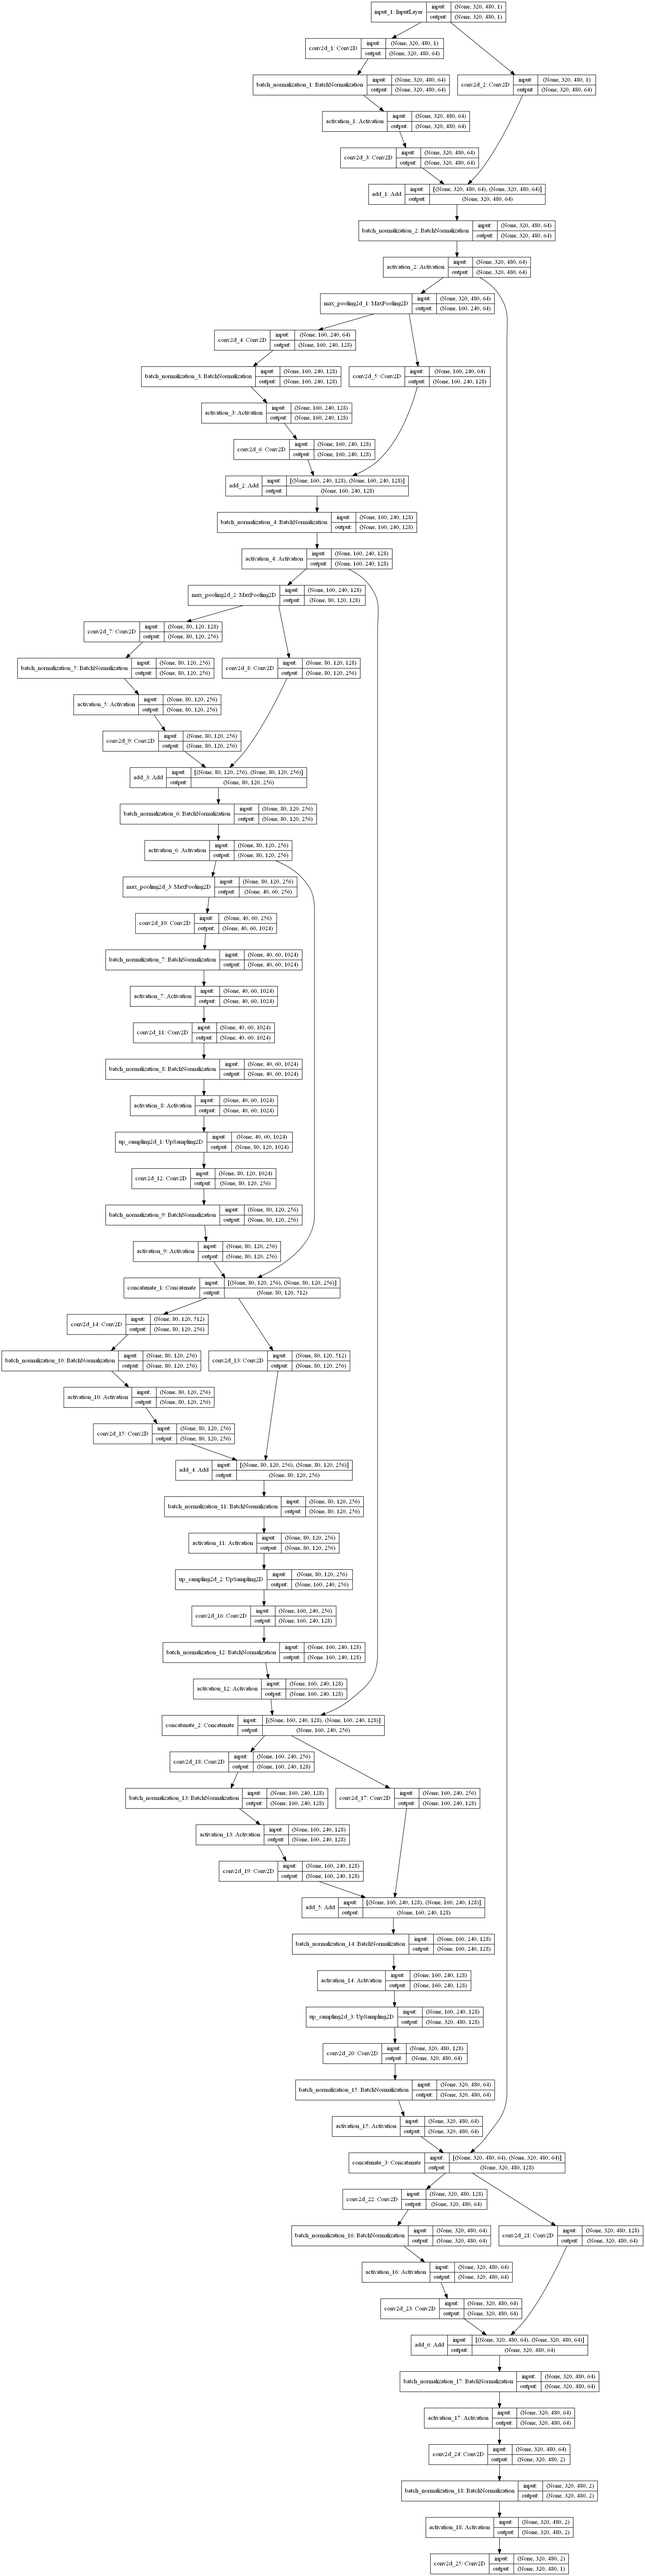
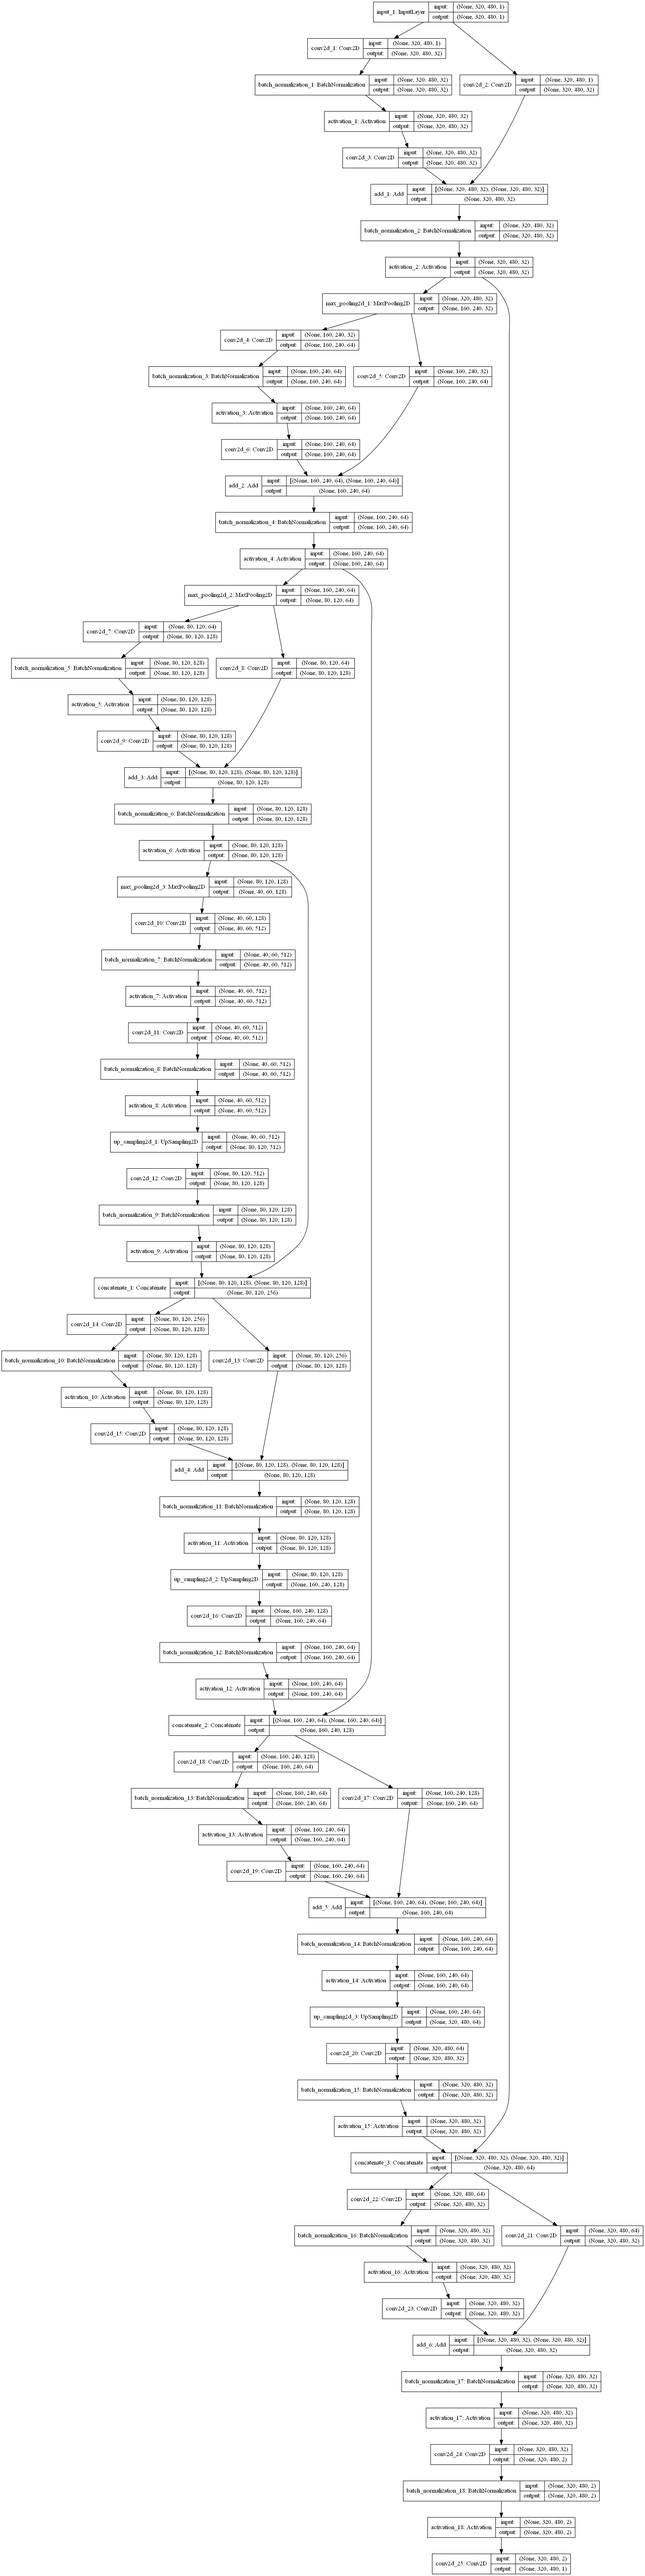
Latest code with TF deterministic and seed initialization

diff --git a/script/model/main.py b/script/model/main.py
@@ -8,8 +8,6 @@ import skimage.io as io
 import skimage.transform as trans
 import cv2
 
-#make iteration throught every class data
-
 def adjustData(img,mask,flag_multi_class,num_class):
     if(flag_multi_class):
         img = img / 255
@@ -99,9 +97,10 @@ data_gen_args = dict(rotation_range=0.0,
                     fill_mode='nearest')
 
 learningRate = 0.001
+kernels = 32
 
 #1
-outputDir = 'C:/Users/DeepLearningRig/Desktop/trainingOutput_new/l4k64ResAddOPConcResDice_' + str(learningRate) + '/'
+outputDir = 'C:/Users/DeepLearningRig/Desktop/trainingOutput_new/l4k' + str(kernels) + 'Dice_' + str(learningRate) + '/'
 if not os.path.exists(outputDir):
     print('Output directory doesnt exist!\n')
     print('It will be created!\n')
@@ -109,48 +108,8 @@ if not os.path.exists(outputDir):
 
 generator = trainGenerator(2,'C:/Users/DeepLearningRig/Desktop/crackForestDataset/SeparatedDataset/Set_0/Train/Augm/','Images','Labels',data_gen_args,save_to_dir = None)
 
-model = AutoEncoder4ResAddOpConcDec(loss_function = Loss.DICE)
-outputPath = outputDir + "AutoEncoder4ResAddOpConcResDice-{epoch:03d}-{loss:.4f}.hdf5"
+model = AutoEncoder4(number_of_kernels=kernels, loss_function = Loss.DICE)
+outputPath = outputDir + "AutoEncoder4Dice-{epoch:03d}-{loss:.4f}.hdf5"
 model_checkpoint = ModelCheckpoint(outputPath, monitor='loss',verbose=1, save_best_only=False)
 model.fit_generator(generator,steps_per_epoch=176,epochs=50,callbacks=[model_checkpoint])
 
-#2
-outputDir = 'C:/Users/DeepLearningRig/Desktop/trainingOutput_new/l4k64ResAddOPConcResCross_' + str(learningRate) + '/'
-if not os.path.exists(outputDir):
-    print('Output directory doesnt exist!\n')
-    print('It will be created!\n')
-    os.makedirs(outputDir)
-
-generator = trainGenerator(2,'C:/Users/DeepLearningRig/Desktop/crackForestDataset/SeparatedDataset/Set_0/Train/Augm/','Images','Labels',data_gen_args,save_to_dir = None)
-
-model = AutoEncoder4ResAddOpConcDec(loss_function = Loss.CROSSENTROPY)
-outputPath = outputDir + "AutoEncoder4ResAddOpConcResCross-{epoch:03d}-{loss:.4f}.hdf5"
-model_checkpoint = ModelCheckpoint(outputPath, monitor='loss',verbose=1, save_best_only=False)
-model.fit_generator(generator,steps_per_epoch=176,epochs=50,callbacks=[model_checkpoint])
-#3
-outputDir = 'C:/Users/DeepLearningRig/Desktop/trainingOutput_new/l4k64ResAddOPConcResDice_1_' + str(learningRate) + '/'
-if not os.path.exists(outputDir):
-    print('Output directory doesnt exist!\n')
-    print('It will be created!\n')
-    os.makedirs(outputDir)
-
-generator = trainGenerator(2,'C:/Users/DeepLearningRig/Desktop/crackForestDataset/SeparatedDataset/Set_0/Train/Augm/','Images','Labels',data_gen_args,save_to_dir = None)
-
-model = AutoEncoder4ResAddOpConcDec(loss_function = Loss.DICE)
-outputPath = outputDir + "AutoEncoder4ResAddOpConcResDice-{epoch:03d}-{loss:.4f}.hdf5"
-model_checkpoint = ModelCheckpoint(outputPath, monitor='loss',verbose=1, save_best_only=False)
-model.fit_generator(generator,steps_per_epoch=176,epochs=50,callbacks=[model_checkpoint])
-
-#4
-outputDir = 'C:/Users/DeepLearningRig/Desktop/trainingOutput_new/l4k64ResAddOPConcResCross_1_' + str(learningRate) + '/'
-if not os.path.exists(outputDir):
-    print('Output directory doesnt exist!\n')
-    print('It will be created!\n')
-    os.makedirs(outputDir)
-
-generator = trainGenerator(2,'C:/Users/DeepLearningRig/Desktop/crackForestDataset/SeparatedDataset/Set_0/Train/Augm/','Images','Labels',data_gen_args,save_to_dir = None)
-
-model = AutoEncoder4ResAddOpConcDec(loss_function = Loss.CROSSENTROPY)
-outputPath = outputDir + "AutoEncoder4ResAddOpConcResCross-{epoch:03d}-{loss:.4f}.hdf5"
-model_checkpoint = ModelCheckpoint(outputPath, monitor='loss',verbose=1, save_best_only=False)
-model.fit_generator(generator,steps_per_epoch=176,epochs=50,callbacks=[model_checkpoint])

diff --git a/script/processing/DataAnalysis/analyzeAll.py b/script/processing/DataAnalysis/analyzeAll.py
@@ -12,8 +12,8 @@ def GetCurrentPredictionInfo(path):
     info = os.path.basename(os.path.normpath(path))
     #three first symbols discribes epoch, then '-' and the rest 6 symbols are dice coeficient
     words = info.split('-')
-    epochNumber = int(words[0])
-    diceLoss = float(words[1]) 
+    epochNumber = int(words[1])
+    diceLoss = float(words[2]) 
     return epochNumber, diceLoss
 
 def GetFileName(path):
@@ -32,12 +32,22 @@ def AnalyzeArchitecture():
         inputPredictionSubDirs = glob.glob(inputDir + 'prediction/' + '*/')
         averageScore = open(inputDir + 'averageScore' + '.txt','w')
         configName = os.path.basename(os.path.normpath(inputDir))
-        firstLine = 'TrainingLoss Recall Precision Accuracy F1 IoU Dice' + '\n'
+        firstLine = 'Epoch TrainingLoss Recall Precision Accuracy F1 IoU Dice' + '\n'
         averageScore.write(firstLine)
-        allScores.write(firstLine)
         allScores.write(configName + '\n')
+        allScores.write(firstLine)
+        
+
+        #gather all training weights
+        weights = glob.glob(inputDir + '*.hdf5')
+        counter = 0
         #Do work in every subdirectory
         for inputPredictionSubDir in inputPredictionSubDirs:
+            #from weights name parse epoch index and loss
+            weightPath = weights[counter]
+            weightName = GetFileName(weightPath)
+            epochNr, loss = GetCurrentPredictionInfo(weightName)
+
             #epochNumber, trainingDiceLoss = GetCurrentPredictionInfo(inputPredictionSubDir)
             #trainingDice = round(1. - trainingDiceLoss, 4)
             #print('Epoch: ' + str(epochNumber) + ', training set Dice Coef: ' + str(trainingDice))
@@ -46,8 +56,6 @@ def AnalyzeArchitecture():
             
             #first line will be labels of data
             
-            
-
             #check if directories exist
             if not os.path.exists(inputPredictionSubDir):
                 print('Input prediction directory doesnt exist!\n')
@@ -124,7 +132,9 @@ def AnalyzeArchitecture():
             overallIoU = round(IoUSum / float(dataCount), 4)
             overallDice = round(dicsSum / float(dataCount), 4)
             print('Overall Score:')
-            print('Recall: ' + str(overallRecall) + 
+            print('Epoch: ' + str(epochNr) + 
+                    'Loss' + str(loss) + 
+                    'Recall: ' + str(overallRecall) + 
                     ', Precision: ' + str(overallPrecision) +
                     ', accuracy: ' + str(overallAccuracy) + 
                     ', f1: ' + str(overallF1) + 
@@ -132,10 +142,10 @@ def AnalyzeArchitecture():
                     ', Dice: ' + str(overallDice))
 
                 #for line
-            averageScoreLine = str(overallRecall) + ' ' + str(overallPrecision) + ' ' + str(overallAccuracy) + ' ' + str(overallF1) + ' ' + str(overallIoU) + ' ' + str(overallDice) + '\n'
+            averageScoreLine = str(epochNr) + ' ' + str(loss) +  ' ' + str(overallRecall) + ' ' + str(overallPrecision) + ' ' + str(overallAccuracy) + ' ' + str(overallF1) + ' ' + str(overallIoU) + ' ' + str(overallDice) + '\n'
             averageScore.write(averageScoreLine)
             allScores.write(averageScoreLine)
-
+            counter+=1
         averageScore.close()
     allScores.close()
 

diff --git a/script/model/predict.py b/script/model/predict.py
@@ -117,10 +117,10 @@ data_gen_args = dict(rotation_range=0.0,
                     horizontal_flip=False,
                     fill_mode='nearest')
 
-configs = ['l4k64ResAddOPConcResCross_2_0.001',
-'l4k64ResAddOPConcResCross_1_0.001',
-'l4k64ResAddOPConcResDice_0.001',
-'l4k64ResAddOPConcResDice_1_0.001']
+configs = ['l4k64Cross_0.001',
+'l4k64Cross_1_0.001',
+'l4k64Dice_0.001',
+'l4k64Dice_1_0.001']
 
 for config in configs:
     #configName = 'l5k16Dice_1'
@@ -132,7 +132,7 @@ for config in configs:
         print('Opening: ' + weightPath)
         fileNameWithExt = weightPath.rsplit('\\', 1)[1]
         fileName, extension = os.path.splitext(fileNameWithExt)
-        model = AutoEncoder4ResAddOpConcDec(pretrained_weights = weightPath, loss_function = Loss.CROSSENTROPY)
+        model = AutoEncoder4(pretrained_weights = weightPath, loss_function = Loss.CROSSENTROPY)
         testGene = testGenerator('C:/Users/DeepLearningRig/Desktop/crackForestDataset/SeparatedDataset/Set_0/Test/Images/')
         results = model.predict_generator(testGene,29,verbose=1)
                 

diff --git a/script/model/model.py b/script/model/model.py
@@ -1,5 +1,17 @@
 import numpy as np 
 import os
+
+os.environ['TF_DETERMINISTIC_OPS'] = '1'
+
+import tensorflow as tf
+from tfdeterminism import patch
+patch()
+
+import random
+os.environ['PYTHONHASHSEED']=str(1)
+random.seed(1)
+np.random.seed(1)
+
 #import skimage.io as io
 #import skimage.transform as trans
 import numpy as np
@@ -11,6 +23,7 @@ from keras.callbacks import ModelCheckpoint, LearningRateScheduler
 from keras import backend as keras
 
 from keras.utils.vis_utils import plot_model
+
 
 
 class Loss(Enum):
@@ -566,7 +579,7 @@ def AutoEncoder4ResAddOp(pretrained_weights = None,
 def AutoEncoder4ResAddOpConcDec(pretrained_weights = None,
 				input_size = (320,480,1),
 				kernel_size = 3,
-				number_of_kernels = 64,
+				number_of_kernels = 32,
 				stride = 1,
 				max_pool = True,
 				max_pool_size = 2,
